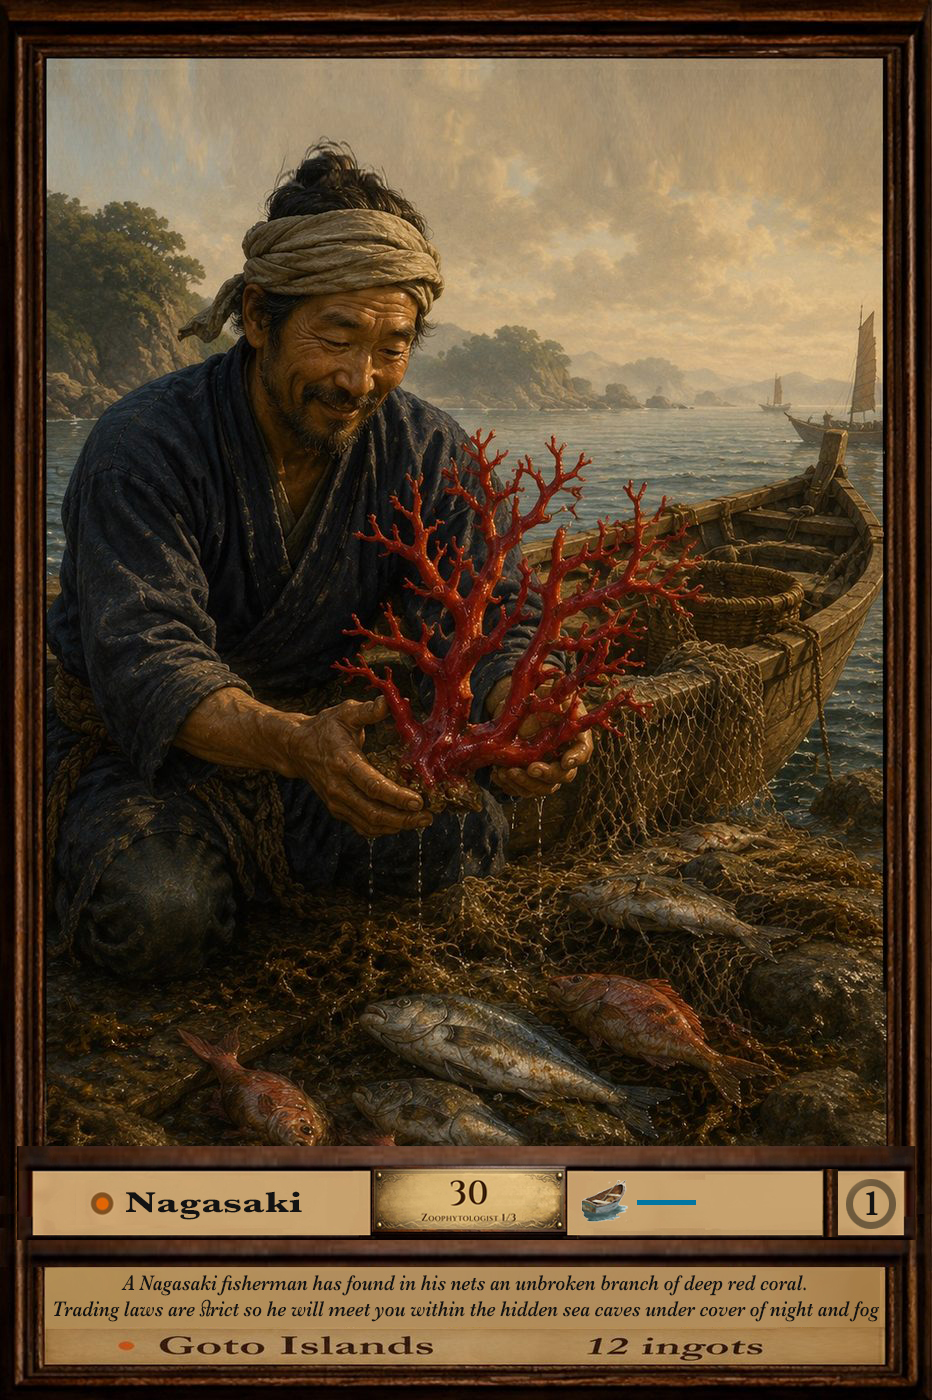
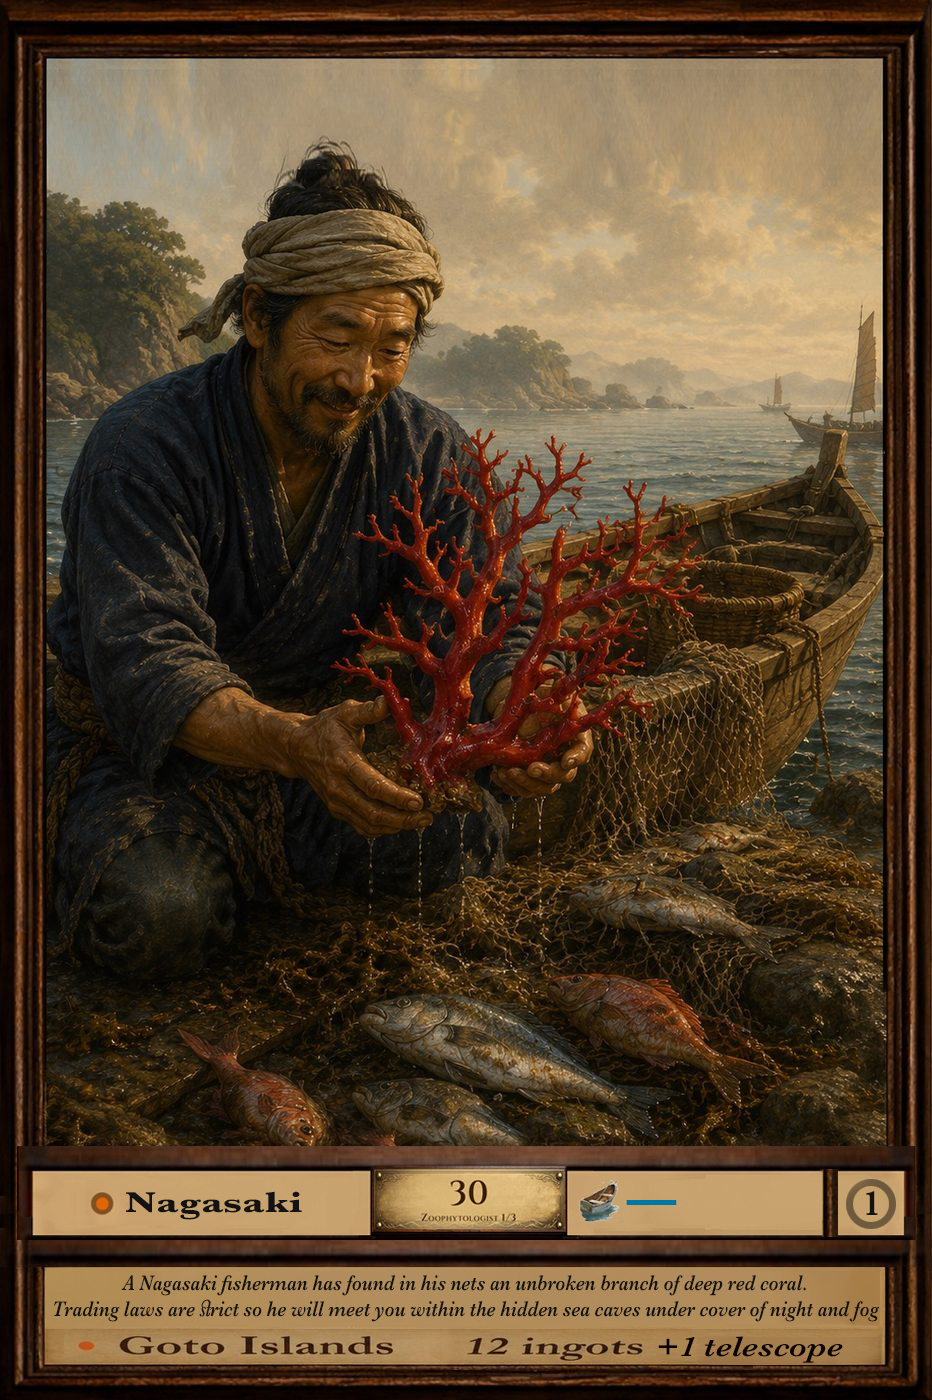
much

Changed region(s): [[0.4979, 0.9521, 0.9024, 0.9829], [0.1245, 0.9521, 0.4667, 0.9829], [0.6223, 0.8293, 0.6845, 0.8907]]

diff --git a/index.html b/index.html
@@ -3807,14 +3807,14 @@ const ROUTES = {
     lineColor:'rgba(200,180,100,0.55)', circuit:['lapidary'],
     nodes:[
       {x:849, y:273, name:'Amsterdam',          isPort:true, portImg:'images/portams.jpeg'},           // 0
-      {x:858,y:272, name:'Lapidary Outskirts', isPort:true, portImg:'images/lapidarydest.jpg'}, // 1
+      {x:858,y:272, name:'Lapidary Outskirts', isPort:true, portImg:'images/lapidary.jpeg'}, // 1
     ],
   },
   lapidary_return: {
     id:'lapidary_return', shipImg:'images/keelboat.png', shipName:'Canal back to Amsterdam',
     lineColor:'rgba(200,180,100,0.55)', circuit:['lapidary_return'],
     nodes:[
-      {x:858,y:272, name:'Lapidary Outskirts', isPort:true, portImg:'images/lapidarydest.jpg'}, // 0
+      {x:858,y:272, name:'Lapidary Outskirts', isPort:true, portImg:'images/lapidary.jpeg'}, // 0
       {x:849, y:273, name:'Amsterdam',          isPort:true, portImg:'images/portams.jpeg'},             // 1
     ],
   },
@@ -6653,7 +6653,7 @@ const PORT_IMAGES = {
   'Ratnapura':        'images/ratnapura.jpg',
   'White Cloud Mountain':'images/cloud_mountain.jpeg',
   'Ancol Cove':       'images/batavianuatilusdest.jpeg',
-  'Lapidary Outskirts':'images/lapidarydest.jpg',
+  'Lapidary Outskirts':'images/lapidary.jpeg',
   'Delft':            'images/silversmithstudio.jpg',
   'Shell Cove':       'images/shellcovedestination.jpeg',
   'Nuremberg':        'images/nuremberg.jpeg',
@@ -7852,11 +7852,14 @@ function continueLeidenToDelft() {
 }
 
 // Shell IDs from Shell Cove
-const SHELL_ITEM_PREFIXES = ['shellglory','wenteltrap','scorpionconch','venuscomb','shellmurex','shellscorpion','shell-nautilus','op-nautilusdiver','nautilusdiver'];
+const SHELL_ITEM_PREFIXES = ['shellglory','wenteltrap','scorpionconch','venuscomb','shellmurex','shellscorpion','shellnaut','op-nautilusdiver','nautilusdiver'];
+// Upgraded nautilus variants (peeled/bisected/mounted) — kept out of the conchologist's
+// sale list even though their ids share the 'shellnaut' prefix; only the raw shell sells.
+const SHELL_ITEM_EXCLUDE  = ['shellnautpeeled','shellnautmount'];
 // Mineral/gem item prefixes
 const MINERAL_ITEM_PREFIXES = ['amethyst','imperialtopaz','apatite','op-moonstone','moonstone','tourmaline','rainbowtourmaline','jadeball','ruby','cobalt'];
 
-function _isShell(item)   { const id=(item.id||'').toLowerCase(); return SHELL_ITEM_PREFIXES.some(p=>id.startsWith(p)); }
+function _isShell(item)   { const id=(item.id||'').toLowerCase(); if (SHELL_ITEM_EXCLUDE.some(p=>id.startsWith(p))) return false; return SHELL_ITEM_PREFIXES.some(p=>id.startsWith(p)); }
 function _isMineral(item) { const id=(item.id||'').toLowerCase(); const img=(item.img||'').replace(/^.*\//,'').toLowerCase(); return MINERAL_ITEM_PREFIXES.some(p=>id.startsWith(p)||img.startsWith(p)); }
 
 // Which Haarlem-schuit stops are actually available to a player:
@@ -8714,6 +8717,7 @@ function openGotoCaves() {
         <span class="buy-item-label">Red Precious Coral</span>
         ${_rcSz ? `<span class="buy-item-sizelabel">${_rcSz}</span>` : ''}
         <span style="font-size:0.55rem;color:rgba(212,168,85,0.5);font-style:italic;">Precious Corallium — a once-in-a-lifetime prize.</span>
+        <span style="font-size:0.5rem;color:rgba(212,168,85,0.55);">Requires a Telescope</span>
         <button class="port-action-btn" onclick="buyRedCoral()">Buy — 12 ingots</button>
       </div>
     </div>`;
@@ -8724,15 +8728,18 @@ function buyRedCoral() {
   if (cardIdx < 0) { setStatus('You need the Goto coral op card.'); return; }
   if ((p.items||[]).some(gi => gi.img==='images/redcoral.png')) { setStatus('You already have the coral.'); return; }
   if (redcoralStock <= 0) { setStatus('The branch is already gone — another merchant got there first.'); return; }
+  const telescopeIdx = (p.items || []).findIndex(gi => (gi.id||'').toLowerCase().startsWith('telescope'));
+  if (telescopeIdx < 0) { setStatus('The fisherman also wants a fine Telescope in trade — bring him one.'); return; }
   if (!payPrice(p, 12, 'ingots')) { log(`${p.name}: Need 12 ingots for the coral.`); return; }
   redcoralStock--;
+  const telescopeUsed = p.items.splice(telescopeIdx, 1)[0];
   p.heldCards.splice(cardIdx, 1);
   p.items = p.items || [];
   p.items.push({ id:'redcoral_'+Date.now(), img:'images/redcoral.png', label:'Red Precious Coral', type:'goods', price:12 });
   renderHeldCards(currentPIdx);
   document.getElementById('goto-buy-area').style.display='none';
   updateInventory(currentPIdx); updateHUD();
-  log(`${p.name} acquires the Red Precious Coral — an unbroken red branch — 12 ingots. The card is spent.`);
+  log(`${p.name} acquires the Red Precious Coral — an unbroken red branch — 12 ingots and a Telescope. The card is spent.`);
   _sweepDeadSingularCards(c => c.img && (c.img.includes('coral_copy') || c.dest === 'Goto Islands'), 'Red Precious Coral');
 }
 function returnNagasakiSkiff() {
@@ -9117,7 +9124,7 @@ function openNurembergPort() {
     <div style="display:flex;align-items:center;gap:12px;">
       <div class="buy-item-frame" onclick="buyPolyhedra()" style="cursor:pointer;"><img src="images/polyhedra1.png" style="width:100%;height:100%;object-fit:contain;"></div>
       <div style="display:flex;flex-direction:column;gap:6px;">
-        <span class="buy-item-label">Polyhedra Model</span>
+        <span class="buy-item-label">Geometric Model</span>
         <span style="font-size:0.55rem;color:rgba(212,168,85,0.5);font-style:italic;">Walnut rhombicosidodecahedron on a carved stand.</span>
         <button class="port-action-btn" onclick="buyPolyhedra()">Buy — 5 ingots</button>
       </div>
@@ -9128,7 +9135,7 @@ function buyPolyhedra() {
   if(polyhedraStock<=0){log(`${p.name}: No more models available.`);return;}
   if(!payPrice(p,5,'ingots')){log(`${p.name}: Need 5 ingots (or 50 silver) for the model!`);return;}
   p.items=p.items||[];
-  p.items.push({id:'polyhedra1_'+Date.now(),img:'images/polyhedra1.png',label:'Polyhedra Model',type:'goods',price:5});
+  p.items.push({id:'polyhedra1_'+Date.now(),img:'images/polyhedra1.png',label:'Geometric Model',type:'goods',price:5});
   polyhedraStock--;
   const oi=(p.heldCards||[]).findIndex(hc=>hc.img&&(hc.img.includes('nuremberg')||hc.dest==='Nuremberg'));
   if(oi>=0){p.heldCards.splice(oi,1);renderHeldCards(currentPIdx);}
@@ -9766,7 +9773,7 @@ const OPPORTUNITY_CARDS = [
   // ── White sea fan coral ×3 — Abrolhos (label TBC) ──
   ...Array(3).fill({ img:'images/op-seafandiver.jpeg',       label:'White Sea Fan Coral',   location:'Abrolhos',          price:0,  currency:'coins', note:'Label coming — free to collector' }),
   // ── Goto red coral ×1 — UNIQUE, discarded after use, Goto Islands, 12 ingots ──
-  ...Array(2).fill({ img:'images/coral_copy.jpeg', label:'Red Precious Coral', location:'Goto Islands', dest:'Goto Islands', price:12, currency:'ingots', note:'A Nagasaki fisherman will meet you in the hidden Goto sea caves.' }),
+  ...Array(2).fill({ img:'images/coral_copy.jpeg', label:'Red Precious Coral', location:'Goto Islands', dest:'Goto Islands', price:12, currency:'ingots', note:'A Nagasaki fisherman will meet you in the hidden Goto sea caves — he also wants a fine Telescope in trade.' }),
   // ── Tree Agate ×2 — Dahel Gorge (inland from Bombay), 8 ingots per half ──
   // Two cards for one nodule: hold both to claim the matched pair; one card = one half.
   ...Array(2).fill({ img:'images/op-treeagate.jpeg', label:'Tree Agate — Dahel Gorge', location:'Dahel Gorge', dest:'Dahel Gorge', price:8, currency:'ingots', note:'A tribal miner inland from Bombay — each card claims one mirrored half.' }),
@@ -9782,7 +9789,7 @@ const OPPORTUNITY_CARDS = [
   // ── Blue Moonstone ×1 — Meetiyagoda, 3 ingots ──
   ...Array(3).fill({ img:'images/op-moonstone_copy.jpeg',    label:'Blue Moonstone',        location:'Meetiyagoda',       price:3,  currency:'ingots' }),
   // ── Jade Puzzle Ball ×1 — White Cloud Mountain, 8 ingots + telescope ──
-  ...Array(2).fill({ img:'images/puzzleball.jpeg', label:'Jade Puzzle Ball — Master Carver', location:'White Cloud Mountain', price:0, currency:'ingots', note:'8 ingots + telescope required' }),
+  ...Array(2).fill({ img:'images/puzzleball.jpeg', label:'Jade Puzzle Ball — Master Carver', location:'White Cloud Mountain', price:0, currency:'ingots', note:'8 ingots + Geometric Model required' }),
   // ── Anatomical Ceroplastic Torso ×1 — Amsterdam, 20 ingots ──
   { img:'images/connection1.jpg', label:'Anatomical Ceroplastic Torso — Italian States', location:'Amsterdam', price:20, currency:'ingots', note:'20 ingots • arrives by special shipment' },
   // ── Ruby Crystal ×3 — Kongu Nadu, 12 ingots ──
@@ -9816,7 +9823,7 @@ function buildOppDeck() {
 const SINGULAR_ITEMS = [
   { match: c => c.img && c.img.includes('op-dragonvaseworkshop'), stock: () => dragonVaseStock, label: 'Dragon Vase', reqItem: 'cobalt' },
   { match: c => c.img && c.img.includes('op-motherofpearlcasket'), stock: () => (ITEM_POOLS['cambay_casket'] ? ITEM_POOLS['cambay_casket'].length : 0), label: 'Mother-of-Pearl Casket' },
-  { match: c => c.img && (c.img.includes('coral_copy') || c.dest === 'Goto Islands'), stock: () => redcoralStock, label: 'Red Precious Coral' },
+  { match: c => c.img && (c.img.includes('coral_copy') || c.dest === 'Goto Islands'), stock: () => redcoralStock, label: 'Red Precious Coral', reqItem: 'telescope' },
   { match: c => c.img && c.img.includes('op-tourmaline'), stock: () => tourmalineStock, label: 'Rainbow Tourmaline', reqItem: 'quadrant' },
   { match: c => c.img && c.img.includes('puzzleball.jpeg'), stock: () => (ITEM_POOLS['whitecloud_jadeball'] ? ITEM_POOLS['whitecloud_jadeball'].length : 0), label: 'Jade Puzzle Ball' },
   { match: c => c.img && c.img.includes('op-braincoral'), stock: () => (ITEM_POOLS['falsebay_coral'] ? ITEM_POOLS['falsebay_coral'].length : 0), label: 'Brain Coral', reqItem: 'pocketwatch' },
@@ -10480,7 +10487,7 @@ const PORT_ITEMS = {
   ],
   'White Cloud Mountain': [
     { img:'images/jadeball.png', label:'Jade Puzzle Ball — 8-Layer Serpentine', price:8, currency:'ingots',
-      reqCard:'images/puzzleball.jpeg', reqItem:'images/telescope.png', consumes:'images/telescope.png',
+      reqCard:'images/puzzleball.jpeg', reqItem:'polyhedra', reqItemLabel:'Geometric Model',
       pool:'whitecloud_jadeball', hardLimit:true, note:'Only one carving ever leaves the workshop' },
   ],
   // ── Nautilus journey ports ──
@@ -10495,7 +10502,7 @@ const PORT_ITEMS = {
       note:'3 available in total — one per card held per turn' },
   ],
   'Lapidary Outskirts': [
-    { img:'images/lapidarydest.jpg', label:'Nautilus — Bisected', price:3, currency:'ingots',
+    { img:'images/shell-nautiloushalf.png', label:'Nautilus — Bisected', price:3, currency:'ingots',
       consumes:'images/shellnaut.png', note:'Cross-section reveals golden Fibonacci chambers' },
     { img:'images/shellnautpeeled.png', label:'Nautilus — Peeled', price:1, currency:'ingots',
       consumes:'images/shellnaut.png', note:'Outer whorl removed to show iridescent nacre' },
@@ -12315,10 +12322,10 @@ const CAB_META = {
   quadrant:    { size:'tall',   name:"Surveyor's Quadrant",    origin:'London',            desc:'Brass quadrant with vernier scale, mahogany case.' },
   protea:      { size:'tall',   name:'Protea under Glass',     origin:'Cape of Good Hope', desc:'King protea beneath a glass cloche on a mahogany stand.' },
   protearaw:   { size:'slim',   name:'King Protea',            origin:'Cape of Good Hope', desc:'Pressed king protea, dried and mounted on ivory card.' },
-  polyhedra1:  { size:'tall',   name:'Polyhedra Model I',      origin:'Nuremberg',          desc:'Carved walnut rhombicosidodecahedron on a carved stand — a Nuremberg master\u2019s finest work.' },
-  polyhedra2:  { size:'tall',   name:'Polyhedra Model II',     origin:'Nuremberg',          desc:'Carved walnut icosahedron — twenty equilateral triangular faces on a turned stand.' },
-  polyhedra3:  { size:'tall',   name:'Polyhedra Model III',    origin:'Nuremberg',          desc:'Great stellated dodecahedron — twelve pentagrammic faces, star-like spines, carved walnut.' },
-  'op-NurembergModel': { size:'tall', name:'Polyhedra Model', origin:'Nuremberg',          desc:'Geometric model carved in Nuremberg — a masterwork in walnut.' },
+  polyhedra1:  { size:'tall',   name:'Geometric Model I',      origin:'Nuremberg',          desc:'Carved walnut rhombicosidodecahedron on a carved stand — a Nuremberg master\u2019s finest work.' },
+  polyhedra2:  { size:'tall',   name:'Geometric Model II',     origin:'Nuremberg',          desc:'Carved walnut icosahedron — twenty equilateral triangular faces on a turned stand.' },
+  polyhedra3:  { size:'tall',   name:'Nested Polyhedra III',    origin:'Nuremberg',          desc:'Great stellated dodecahedron — twelve pentagrammic faces, star-like spines, carved walnut.' },
+  'op-NurembergModel': { size:'tall', name:'Geometric Model', origin:'Nuremberg',          desc:'Geometric model carved in Nuremberg — a masterwork in walnut.' },
   ceylonjar:   { size:'tall',   name:'Kandyan Painted Jar',    origin:'Ceylon',            desc:'Hand-painted earthenware, banded with bold geometric ornament.' },
   ceylonwaterpot:{ size:'medium', name:'Engraved Brass Kettle',  origin:'Ceylon',            desc:'Repoussé brass kettle with a swung handle and pierced foot.' },
   bataviabox:  { size:'medium', name:'Filigree Silver Casket', origin:'Batavia · Java',    desc:'Octagonal box worked in fine silver filigree by Batavia smiths.' },
@@ -12497,15 +12504,15 @@ const ITEM_SCORES = {
     itemType:'curiosity', shellFamily:null,    mineralType:null,   region:'asia'     },
   'shellglory':           { w:6,  c:7,  s:10, a:9,  total:32, label:'Glory of the Sea',
     itemType:'shell',     shellFamily:'cone',  mineralType:null,   region:'asia'     },
-  'nurembergmodel':       { w:7,  c:10, s:7,  a:8,  total:32, label:'Nuremberg Model',
+  'nurembergmodel':       { w:7,  c:10, s:7,  a:8,  total:32, label:'Geometric Model',
     itemType:'polyhedra', shellFamily:null,    mineralType:null,   region:'europe'   },
-  'polyhedra1':           { w:7,  c:9,  s:5,  a:7,  total:28, label:'Nuremberg Model',
+  'polyhedra1':           { w:7,  c:9,  s:5,  a:7,  total:28, label:'Geometric Model',
     itemType:'polyhedra', shellFamily:null,    mineralType:null,   region:'europe'   },
-  'polyhedra2':           { w:7,  c:9,  s:5,  a:7,  total:28, label:'Nuremberg Model',
+  'polyhedra2':           { w:7,  c:9,  s:5,  a:7,  total:28, label:'Geometric Model',
     itemType:'polyhedra', shellFamily:null,    mineralType:null,   region:'europe'   },
-  'polyhedra3':           { w:7,  c:9,  s:5,  a:7,  total:28, label:'Nuremberg Model',
+  'polyhedra3':           { w:7,  c:9,  s:5,  a:7,  total:28, label:'Nested Polyhedra',
     itemType:'polyhedra', shellFamily:null,    mineralType:null,   region:'europe'   },
-  'op-nurembergmodel':    { w:7,  c:10, s:7,  a:8,  total:32, label:'Nuremberg Model',
+  'op-nurembergmodel':    { w:7,  c:10, s:7,  a:8,  total:32, label:'Geometric Model',
     itemType:'polyhedra', shellFamily:null,    mineralType:null,   region:'europe'   },
   'amethyst':             { w:8,  c:7,  s:6,  a:8,  total:29, label:'Amethyst Geode',
     itemType:'mineral',   shellFamily:null,    mineralType:'quartz',  region:'americas' },
@@ -12677,7 +12684,7 @@ const BONUS_DEFS = [
   },
   {
     id: 'geometrist', name: 'Geometrist', pts: 10,
-    desc: 'Complete set of 3 polyhedra models',
+    desc: 'Complete set of 3 Geometric Models',
     test(items) {
       const FULL_SET = 3; // update to 5 when more models added
       return items.filter(i => i.sc.label.replace(/\s*\d+$/, '').trim() === 'Nuremberg Model').length >= FULL_SET;
@@ -14142,7 +14149,7 @@ function cabClearHighlights() {
     // …then every port/destination background, so a port is never blank on arrival.
     var _portRe = /portImg:\s*'(images\/[^']+)'/g, _pm;
     while ((_pm = _portRe.exec(html)) !== null) { if (prioOrder.indexOf(_pm[1]) < 0) prioOrder.push(_pm[1]); }
-    var deferLast = ['images/seafanred.png','images/seafanpurple.png','images/seafan.png','images/amethyst1.png','images/amethyst2.png','images/nettiflamelily.png','images/nettilotus.png','images/nettinightbloomingjasmine.png','images/inlaidbox.png','images/brassjalibox.png','images/lisbonjar.png','images/ceylonjar.png','images/dragonvase.png','images/silverewer.png','images/cinnabar.png','images/ruby1.png','images/jadeball.png','images/brasshookah.png','images/wenteltrap.png','images/polyhedra1.png','images/shellnautmount.png','images/lapidarydest.jpg','images/imperialtopaz1.png','images/imperialtopaz2.png','images/riocup.png','images/anatomicalmodeltorso.png','images/mandrake.png','images/tree-agate-slice-a.png','images/tree-agate-slice-b.png'];
+    var deferLast = ['images/seafanred.png','images/seafanpurple.png','images/seafan.png','images/amethyst1.png','images/amethyst2.png','images/nettiflamelily.png','images/nettilotus.png','images/nettinightbloomingjasmine.png','images/inlaidbox.png','images/brassjalibox.png','images/lisbonjar.png','images/ceylonjar.png','images/dragonvase.png','images/silverewer.png','images/cinnabar.png','images/ruby1.png','images/jadeball.png','images/brasshookah.png','images/wenteltrap.png','images/polyhedra1.png','images/shellnautmount.png','images/shell-nautiloushalf.png','images/imperialtopaz1.png','images/imperialtopaz2.png','images/riocup.png','images/anatomicalmodeltorso.png','images/mandrake.png','images/tree-agate-slice-a.png','images/tree-agate-slice-b.png'];
     var pri = [], rest = [], defer = [];
     list.forEach(function(u) {
       if (prioOrder.indexOf(u) >= 0) pri.push(u);
